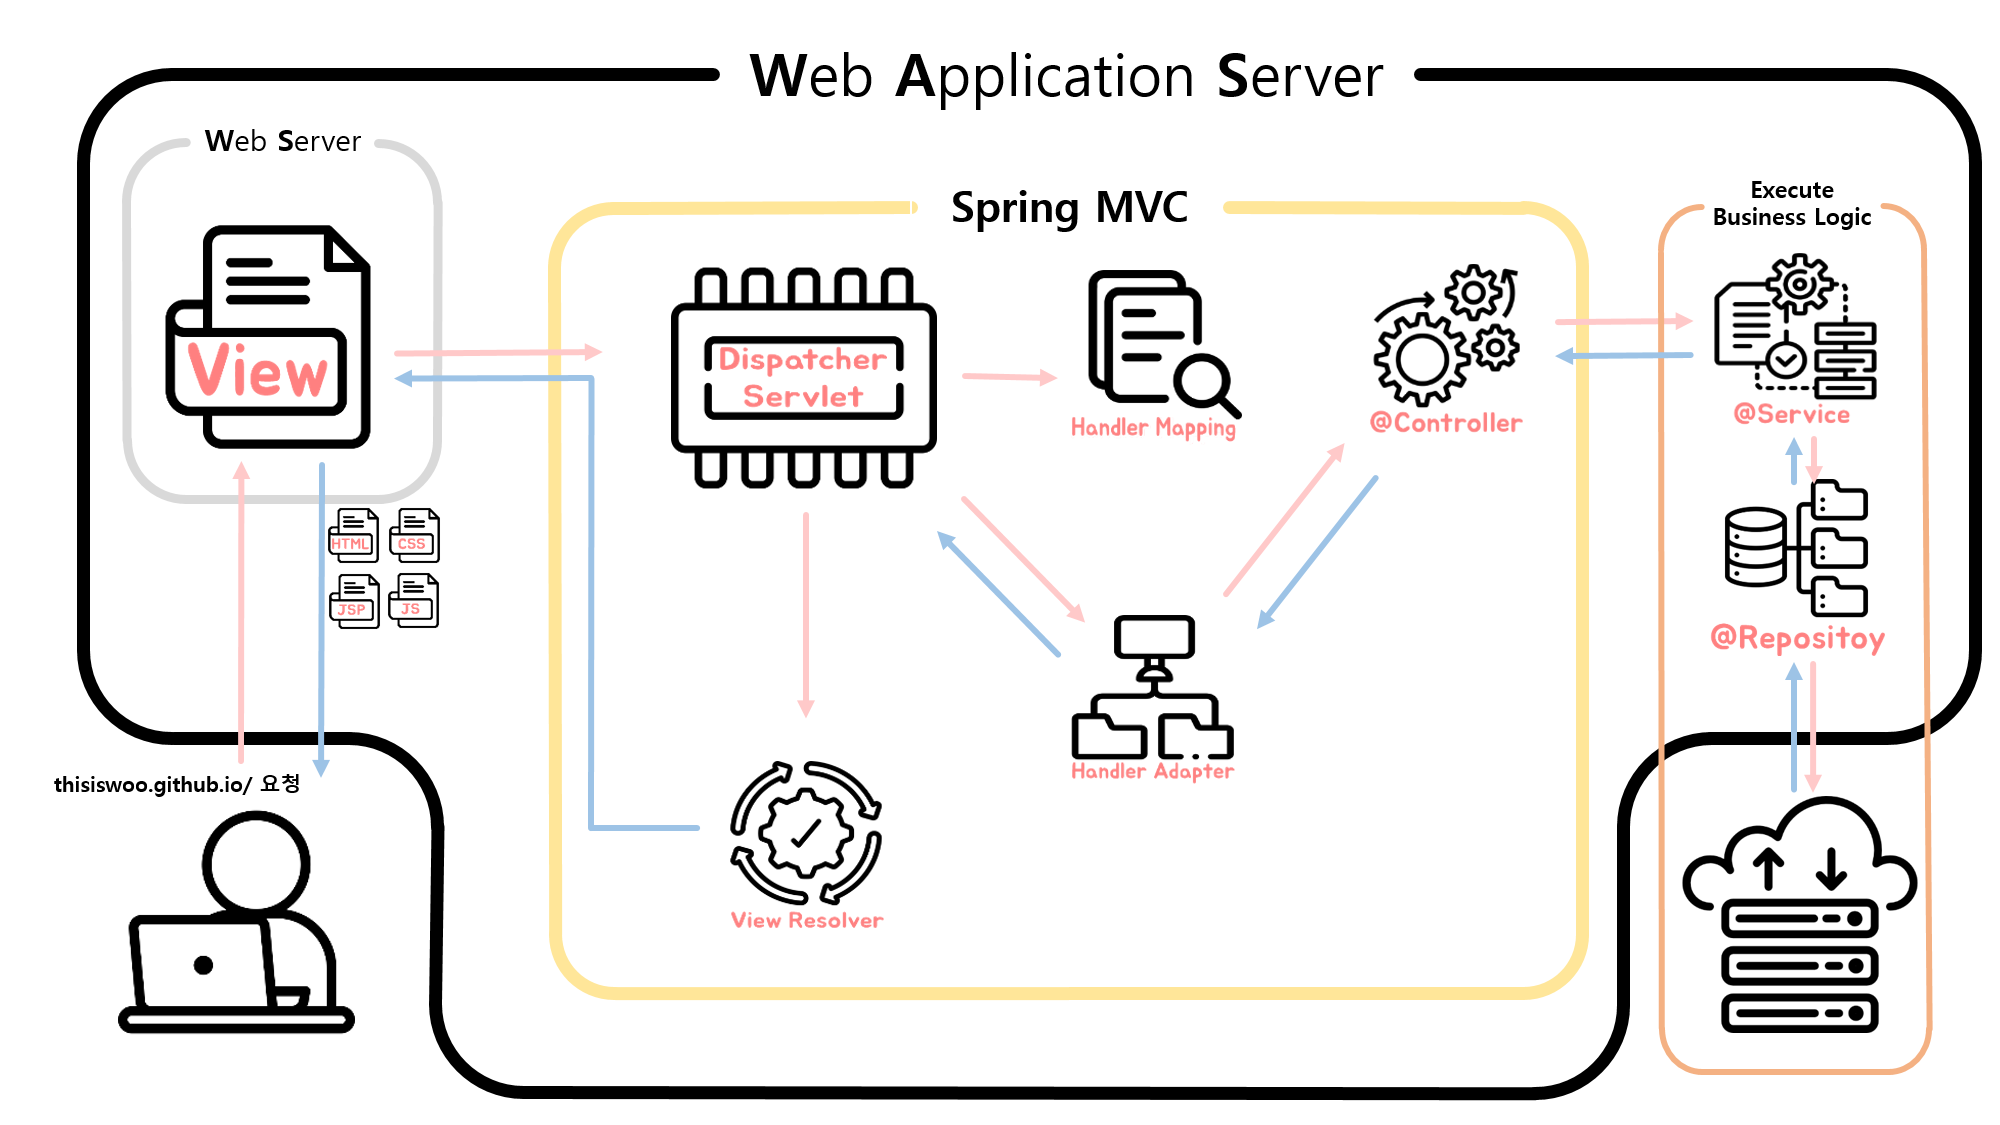
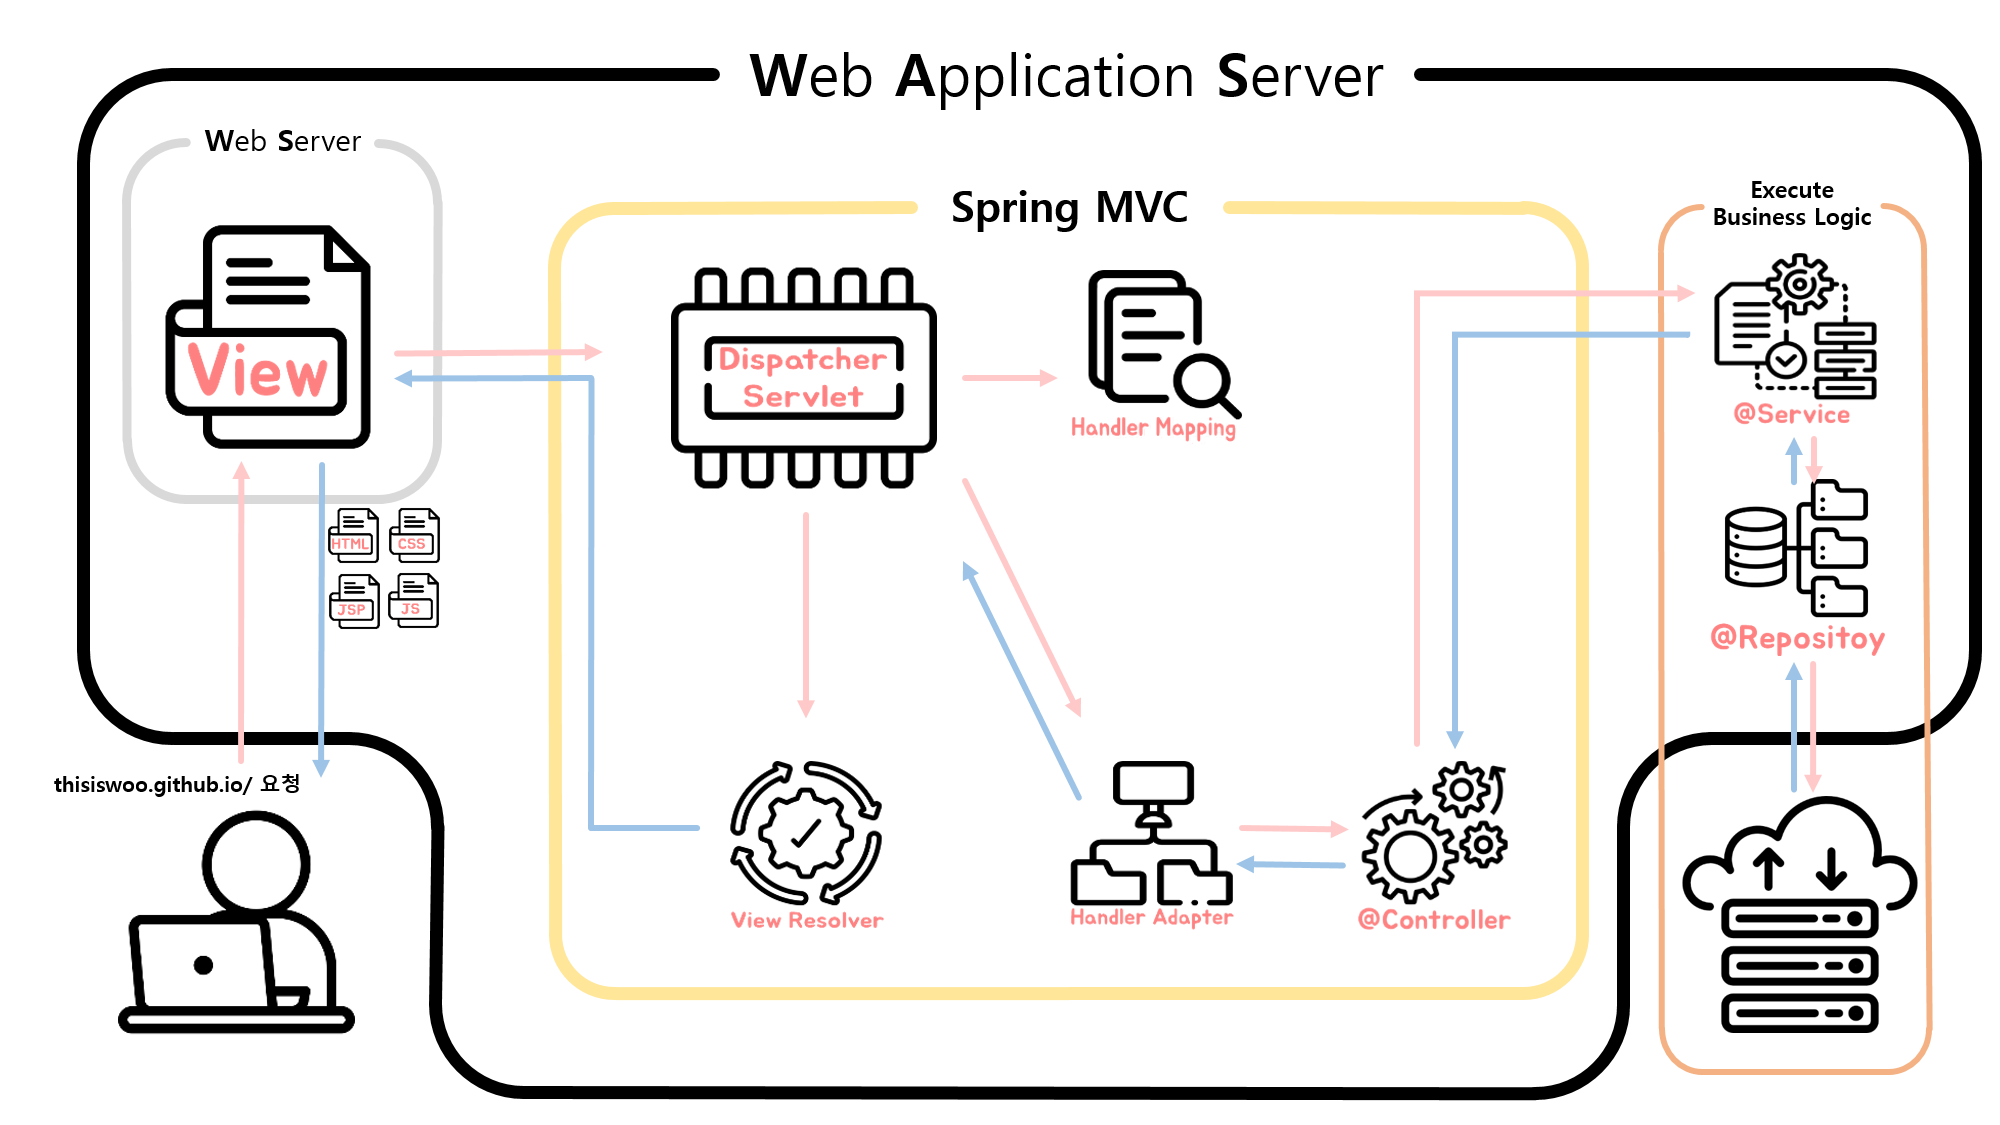
이력서 수정 및 스프링 시큐리티 동작과정 이미지 수정

Changed region(s): [[0.465, 0.4356, 0.775, 0.84], [0.62, 0.2178, 0.868, 0.56]]

diff --git a/_posts/development/server/2024-04-30-spring-security-process.md b/_posts/development/server/2024-04-30-spring-security-process.md
@@ -18,7 +18,7 @@ Spring Security 내부 동작 과정을 요약한 이미지
 {:.figcaption}
 
 
-## Spring 요청 과정
+## Spring MVC 요청 과정
 ![](/assets/img/development/server/2024-04-30_spring_security_process/springmvc_architechture.png){:.centered width="100%"}
 Spring MVC 요약한 이미지
 {:.figcaption}
